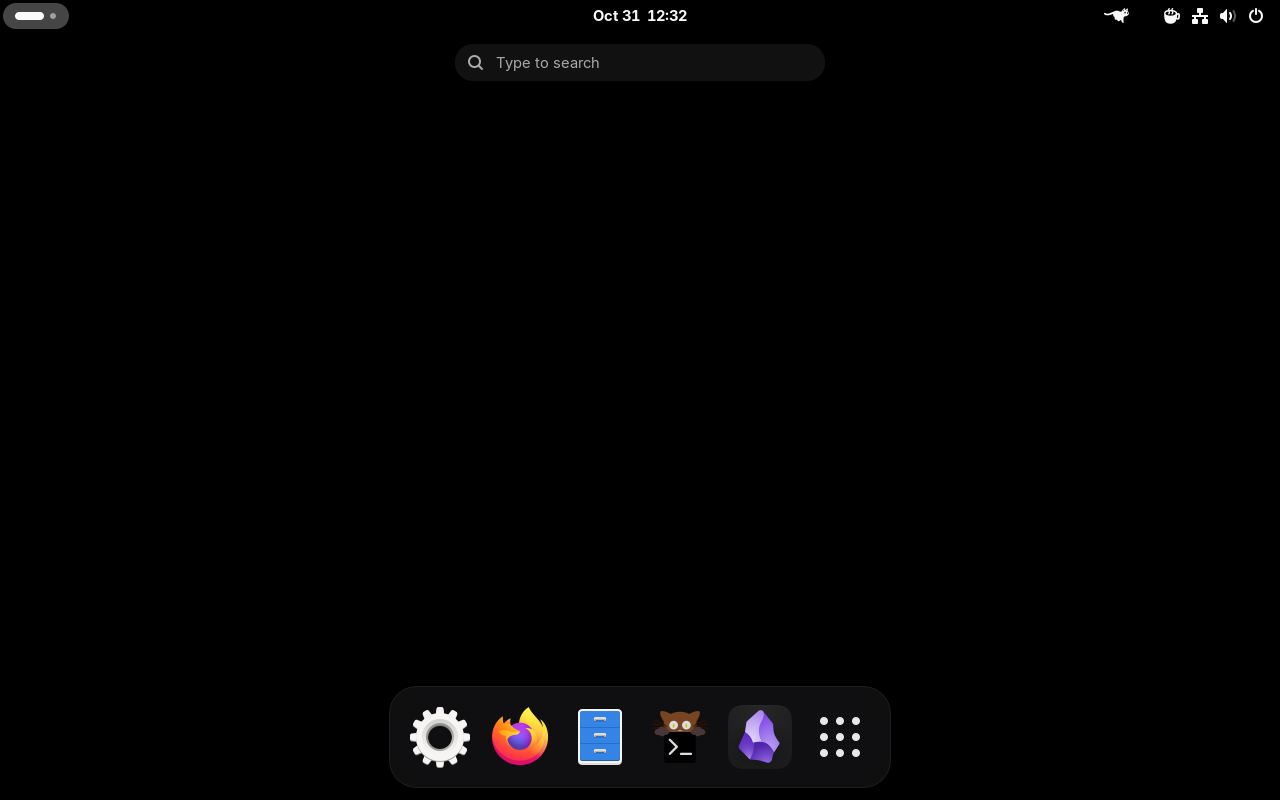
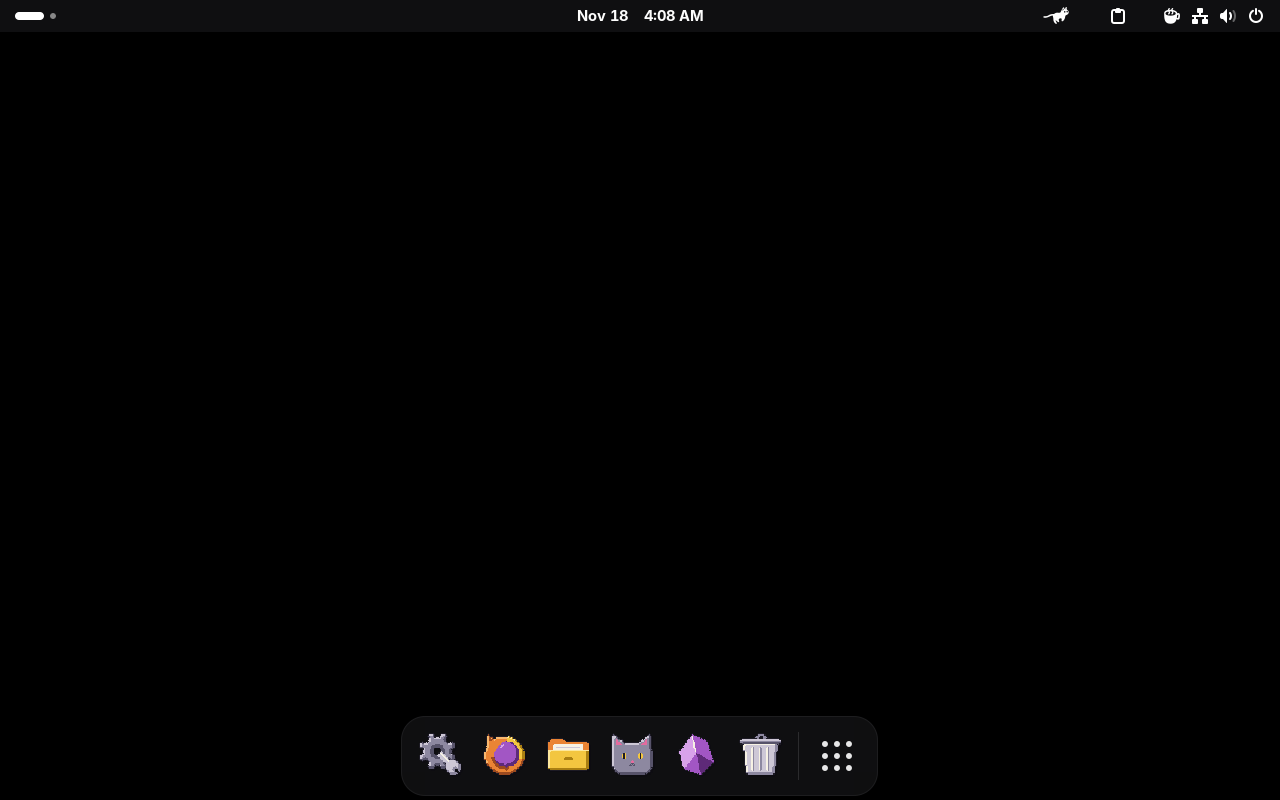
add more apps & extensions

diff --git a/README.md b/README.md
@@ -13,8 +13,8 @@ for a standard mutable Fedora system (`dnf5` + Flatpak).
 - Hybrid UEFI + BIOS Live ISO with `erofs` squashfs root
 - Anaconda installer for disk installation
 - Dark GNOME desktop: `adw-gtk3-dark`, Inter 11, JetBrains Mono 11
-- Kitty terminal, pinned dock, GNOME Shell extensions (blur-my-shell, RunCat, Caffeine)
-- Flathub + Obsidian installed on first boot
+- Kitty terminal, pinned dock, GNOME Shell extensions (blur-my-shell, RunCat, Clipboard History, Caffeine, Dock to Panel, GSConnect)
+- Flathub apps are installed on first boot
 
 ## Apps & Tools
 
